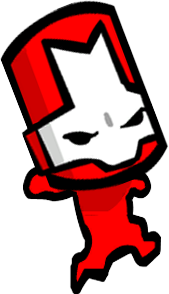
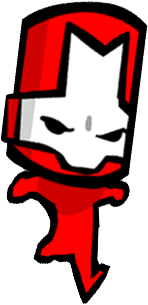
falling frames

diff --git a/Platform2D_IGPE/src/gui/animation/VincenzoAnimation.java b/Platform2D_IGPE/src/gui/animation/VincenzoAnimation.java
@@ -24,7 +24,13 @@ public class VincenzoAnimation implements CharacterAnimation {
 	};
 
 	private final static Image[] JUMPING_FRAMES = { new Image(PATH_FRAME + "/Jump/frame1.png")};
-	private final static Image[] FALLING_FRAMES = { new Image(PATH_FRAME + "/Falling/frame1.png")};
+	private final static Image[] FALLING_FRAMES = { 
+			new Image(PATH_FRAME + "/Falling/frame1.png"),
+			new Image(PATH_FRAME + "/Falling/frame2.png"),
+			new Image(PATH_FRAME + "/Falling/frame3.png"),
+			new Image(PATH_FRAME + "/Falling/frame4.png"),
+			
+	};
 
 	private SpriteAnimation staticAnimation;
 
